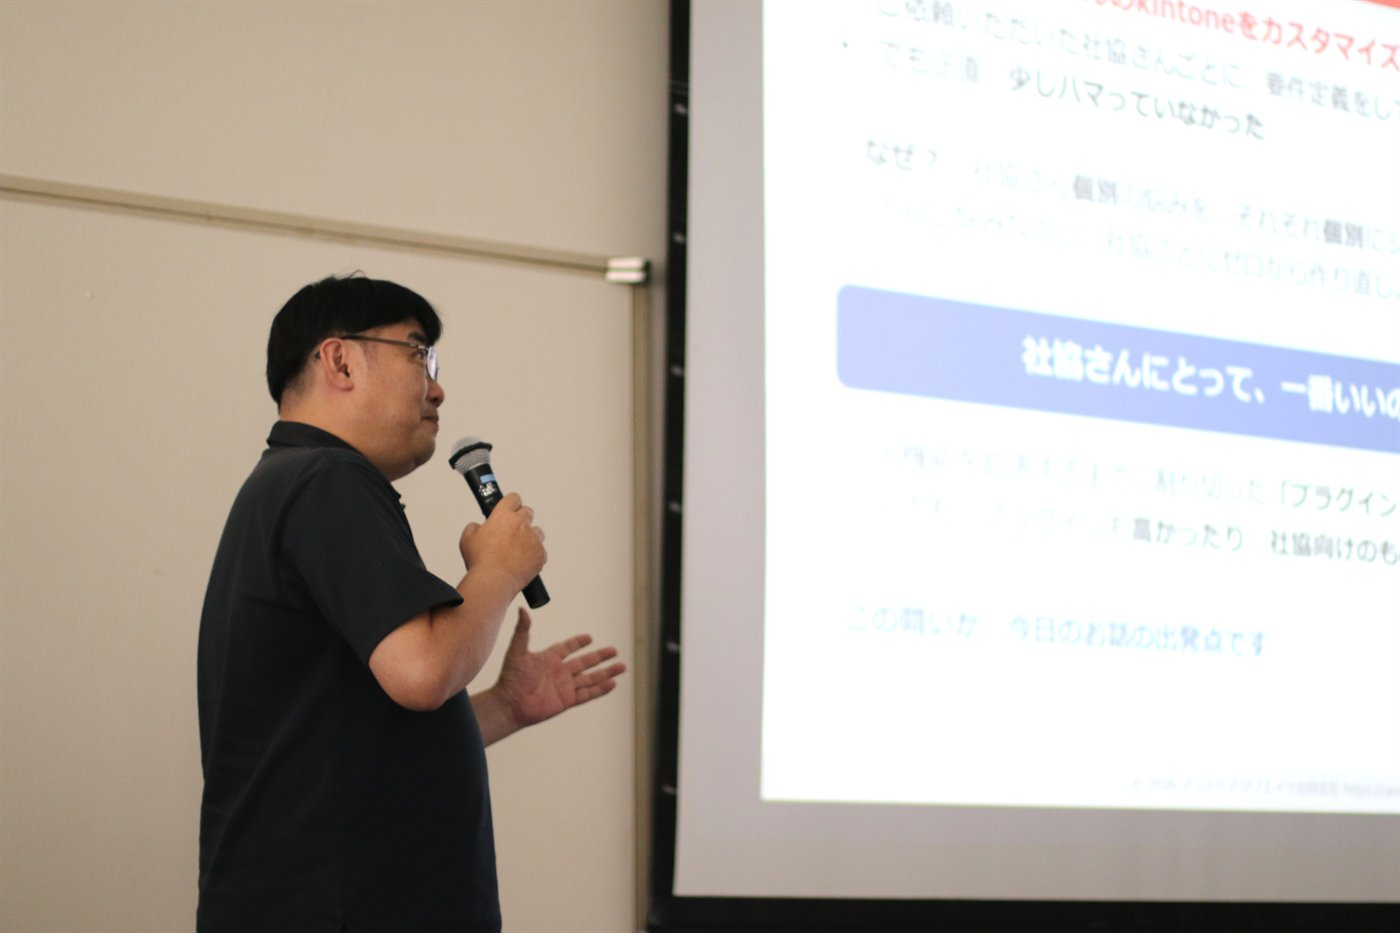
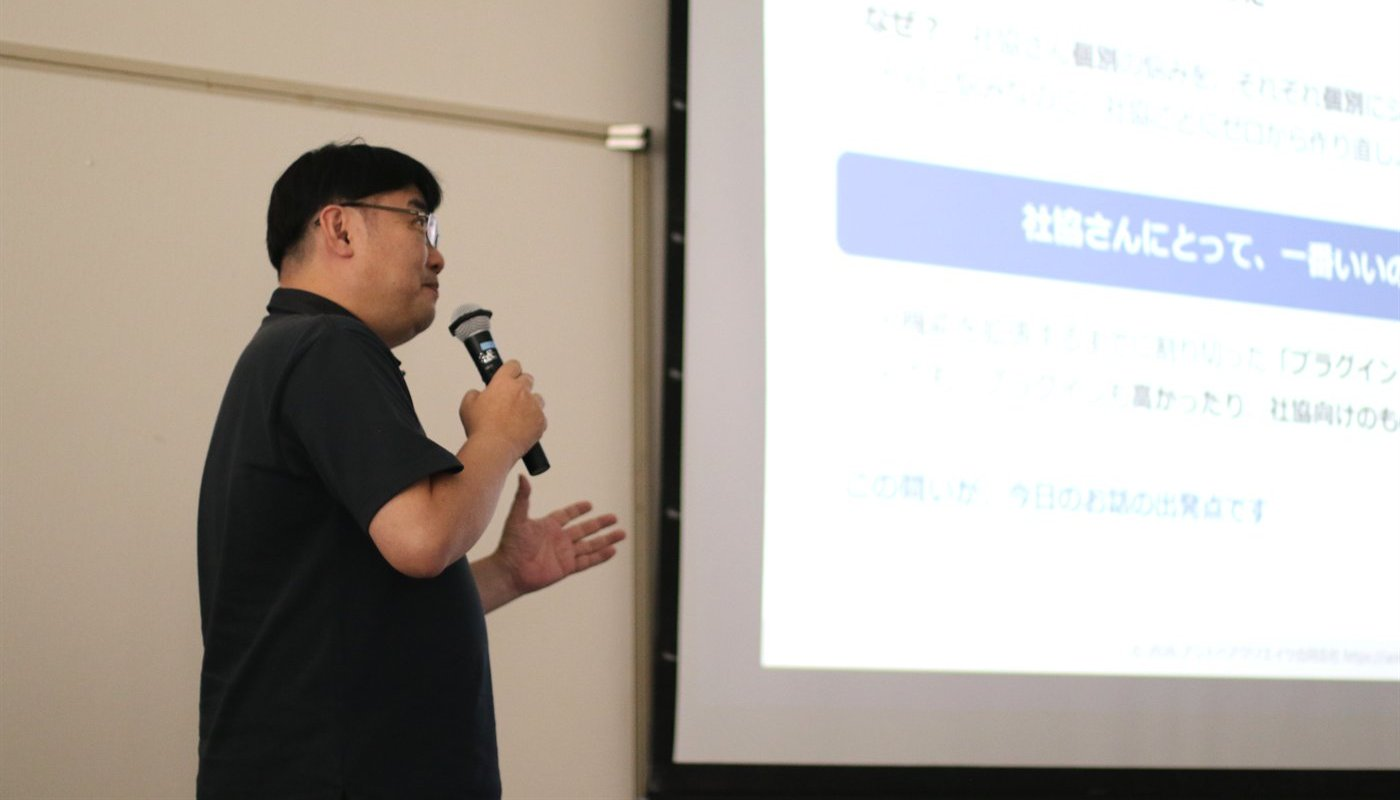
セミナーレポート：全講演写真の上部を約1/7カットし表示比率を7:4に

diff --git a/events/social-welfare-seminar-2026-08/index.html b/events/social-welfare-seminar-2026-08/index.html
@@ -190,7 +190,7 @@
             float: right;
             width: 40%;
             max-width: 300px;
-            aspect-ratio: 3 / 2;
+            aspect-ratio: 7 / 4;
             object-fit: cover;
             border-radius: 8px;
             margin: 4px 0 12px 22px;
